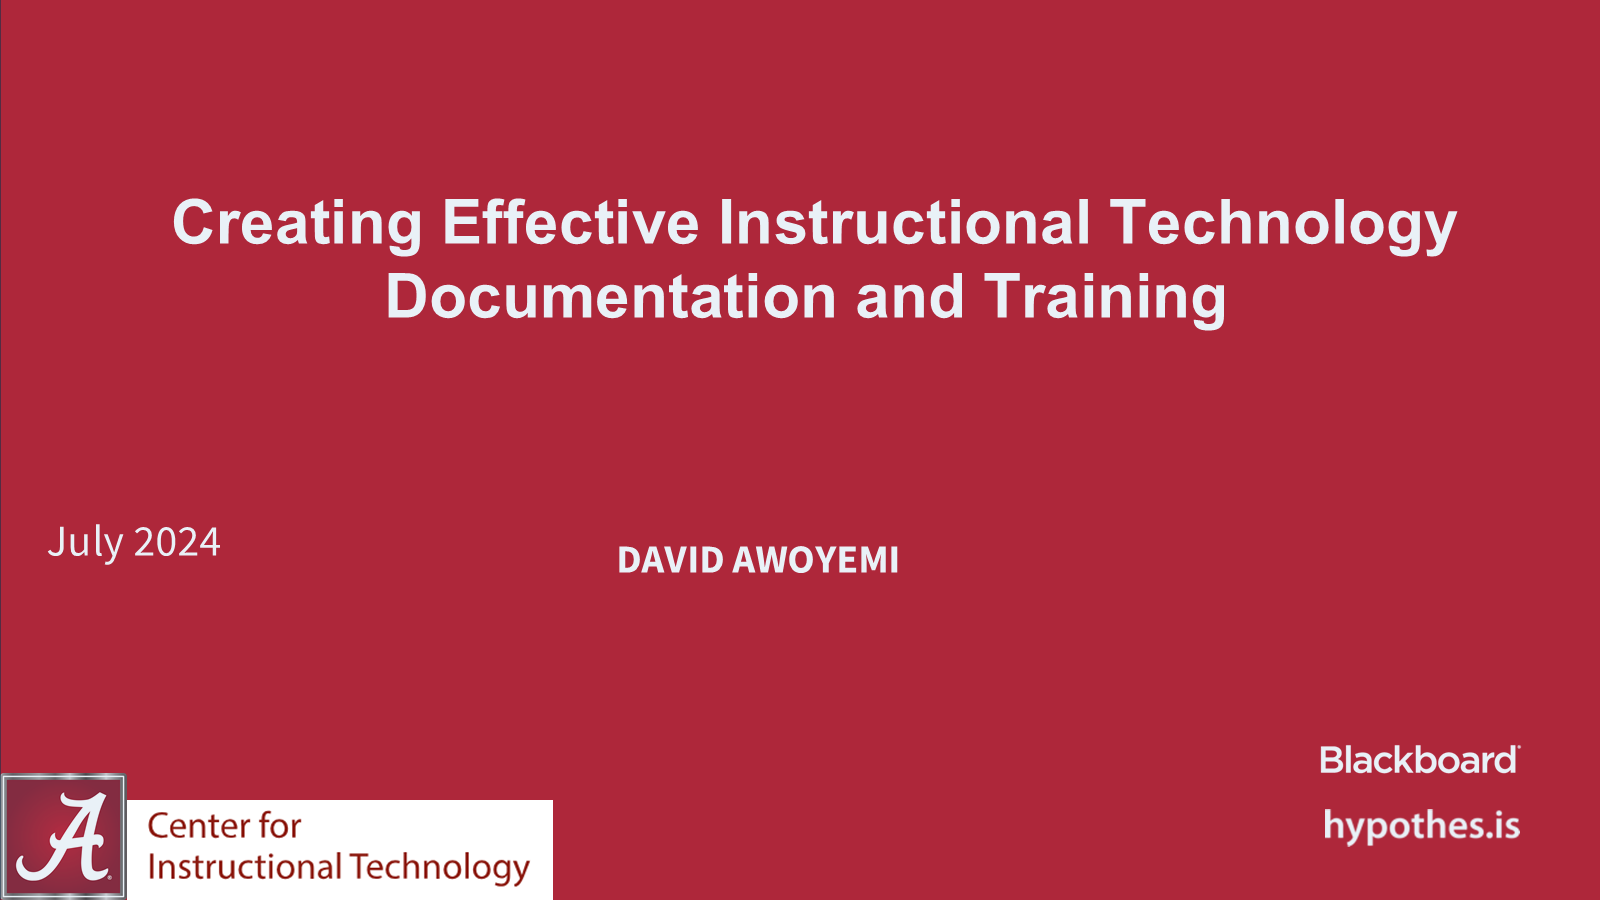
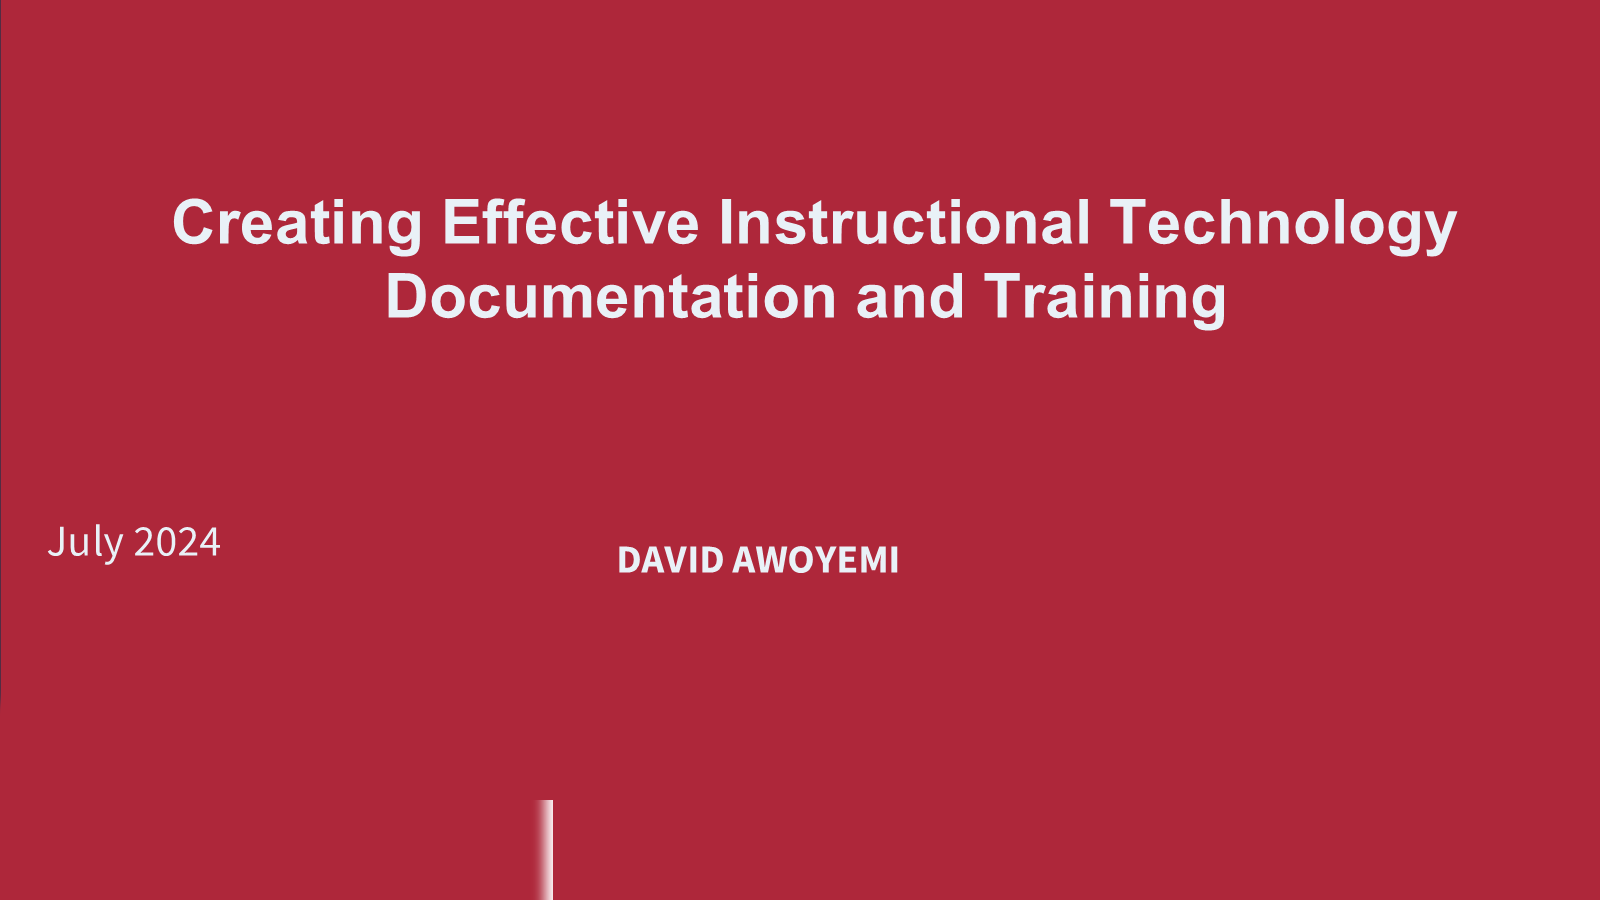
Deidentify CIT faculty training showcase
Removes 'Center for Instructional Technology' / UA references from
both the visible imagery and the surrounding text on the portfolio
page's Faculty Training Prototype section.

Image edits (via Pillow)
- cit-slide-01.png and cit-slide-07.png: mask the bottom-left UA
  logo + 'Center for Instructional Technology' label and the
  bottom-right Blackboard / hypothes.is wordmarks. Background colour
  sampled from the slide centre so the mask blends into the
  existing crimson backdrop; soft Gaussian feather on the mask
  edges avoids hard rectangles.

Text edits
- Heading: 'Activating Annotation in Blackboard — CIT Faculty PD.'
  -> 'Activating Annotation in Blackboard — faculty PD prototype.'
- Description: 'University of Alabama Center for Instructional
  Technology' -> 'higher-education faculty development program'.
- Caption: 'Title slide — UA Center for Instructional Technology /
  Blackboard / hypothes.is' -> 'Title slide — Creating Effective
  Instructional Technology Documentation and Training.'

Changed region(s): [[0.0, 0.84, 0.3438, 1.0], [0.8125, 0.8089, 0.9688, 0.8711], [0.8125, 0.9022, 0.9688, 0.9333]]

diff --git a/portfolio.html b/portfolio.html
@@ -135,13 +135,13 @@
     <div class="section-inner">
       <div class="section-heading">
         <span class="eyebrow">Faculty Training Prototype</span>
-        <h2>Activating Annotation in Blackboard, CIT Faculty PD.</h2>
-        <p>A documentation and training prototype I designed and delivered for the University of Alabama Center for Instructional Technology (July 2024). The deck walks faculty from set-up through pedagogy: enabling the Hypothesis tool inside Blackboard, configuring grading and group readings, and applying social-annotation strategies to course readings, syllabi, and lecture slides. The methodology behind the documentation follows ADDIE.</p>
+        <h2>Activating Annotation in Blackboard, faculty PD prototype.</h2>
+        <p>A documentation and training prototype I designed and delivered for a higher-education faculty development program (July 2024). The deck walks faculty from set-up through pedagogy: enabling the Hypothesis tool inside Blackboard, configuring grading and group readings, and applying social-annotation strategies to course readings, syllabi, and lecture slides. The methodology behind the documentation follows ADDIE.</p>
       </div>
       <div class="cit-training-grid fade">
         <figure class="cit-training-tile cit-training-tile--hero">
           <img src="assets/images/cit-training/cit-slide-01.png" alt="Title slide: Creating Effective Instructional Technology Documentation and Training, July 2024, David Awoyemi" loading="lazy" decoding="async">
-          <figcaption>Title slide, UA Center for Instructional Technology / Blackboard / hypothes.is</figcaption>
+          <figcaption>Title slide, Creating Effective Instructional Technology Documentation and Training.</figcaption>
         </figure>
         <figure class="cit-training-tile">
           <img src="assets/images/cit-training/cit-slide-05.png" alt="ADDIE diagram: Analysis, Design, Develop, Implement, Evaluation cycle annotated with documentation tasks" loading="lazy" decoding="async">

diff --git a/scripts/build_site.py b/scripts/build_site.py
@@ -3805,13 +3805,13 @@ def render_portfolio(data: dict[str, Any]) -> str:
     <div class="section-inner">
       <div class="section-heading">
         <span class="eyebrow">Faculty Training Prototype</span>
-        <h2>Activating Annotation in Blackboard — CIT Faculty PD.</h2>
-        <p>A documentation and training prototype I designed and delivered for the University of Alabama Center for Instructional Technology (July 2024). The deck walks faculty from set-up through pedagogy: enabling the Hypothesis tool inside Blackboard, configuring grading and group readings, and applying social-annotation strategies to course readings, syllabi, and lecture slides. The methodology behind the documentation follows ADDIE.</p>
+        <h2>Activating Annotation in Blackboard — faculty PD prototype.</h2>
+        <p>A documentation and training prototype I designed and delivered for a higher-education faculty development program (July 2024). The deck walks faculty from set-up through pedagogy: enabling the Hypothesis tool inside Blackboard, configuring grading and group readings, and applying social-annotation strategies to course readings, syllabi, and lecture slides. The methodology behind the documentation follows ADDIE.</p>
       </div>
       <div class="cit-training-grid fade">
         <figure class="cit-training-tile cit-training-tile--hero">
           <img src="assets/images/cit-training/cit-slide-01.png" alt="Title slide: Creating Effective Instructional Technology Documentation and Training, July 2024, David Awoyemi" loading="lazy" decoding="async">
-          <figcaption>Title slide — UA Center for Instructional Technology / Blackboard / hypothes.is</figcaption>
+          <figcaption>Title slide — Creating Effective Instructional Technology Documentation and Training.</figcaption>
         </figure>
         <figure class="cit-training-tile">
           <img src="assets/images/cit-training/cit-slide-05.png" alt="ADDIE diagram: Analysis, Design, Develop, Implement, Evaluation cycle annotated with documentation tasks" loading="lazy" decoding="async">
